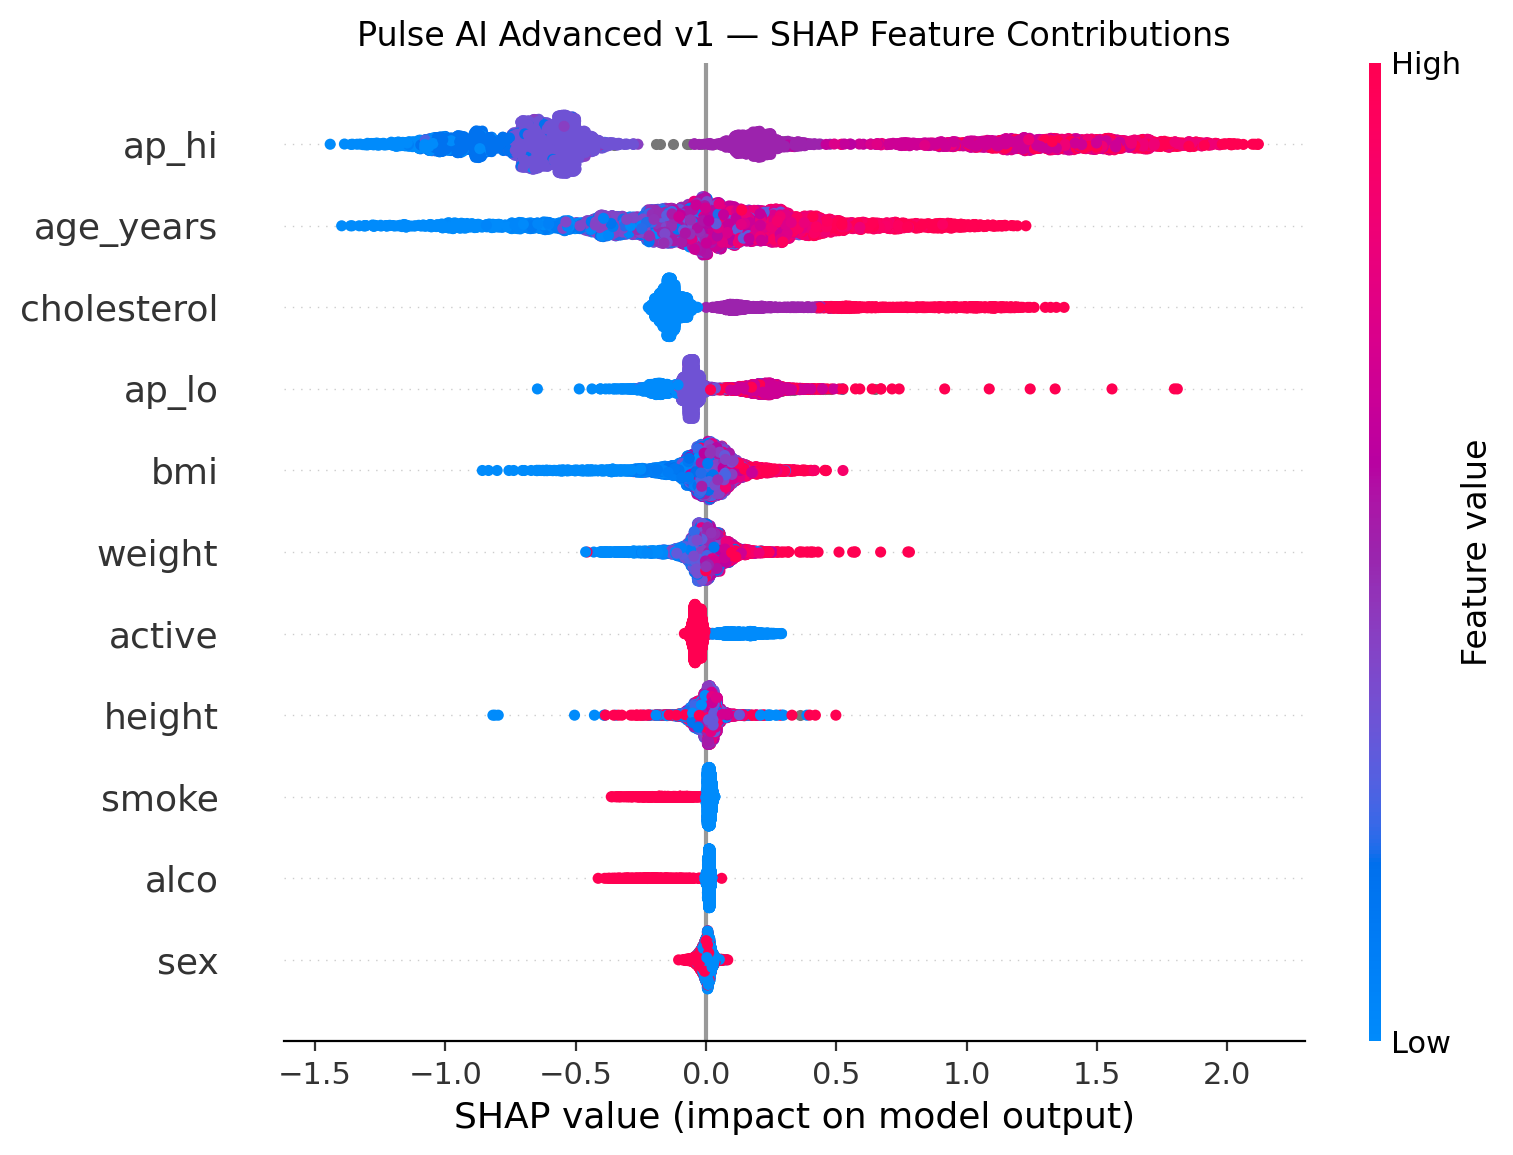
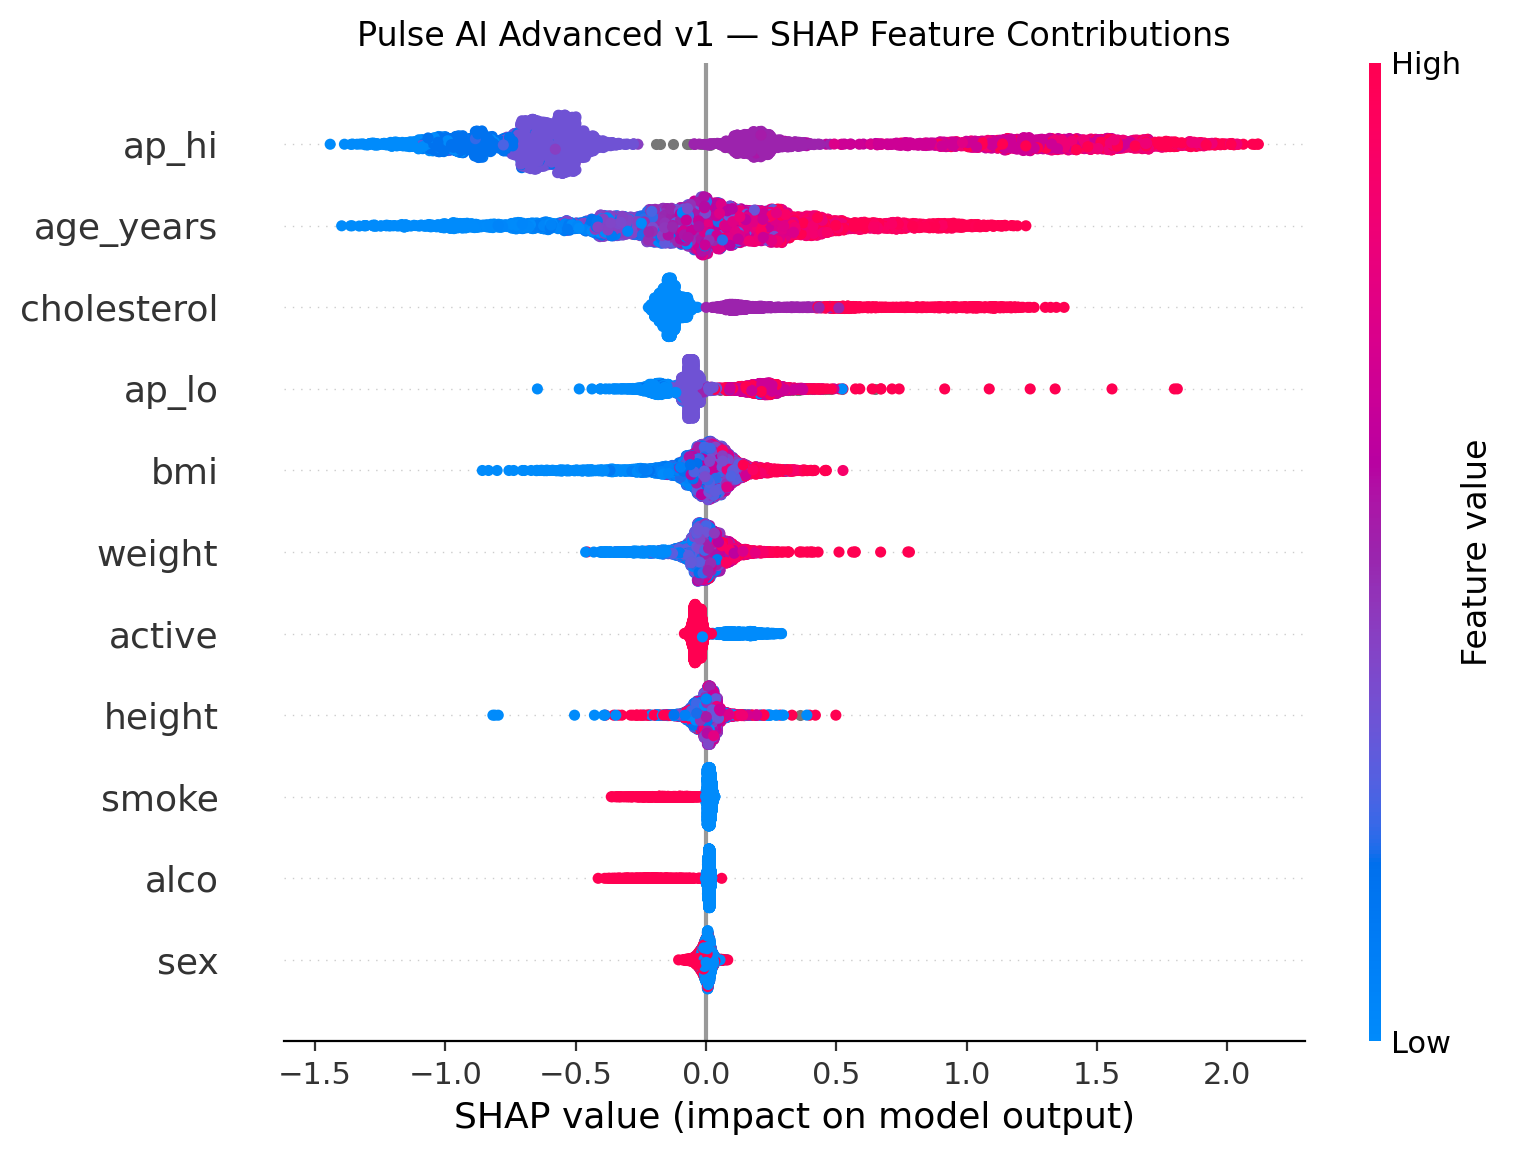
Predicted with SHAP

diff --git a/pulse_ml/src/predict.py b/pulse_ml/src/predict.py
@@ -1,0 +1,386 @@
+import os
+import joblib
+import numpy as np
+import pandas as pd
+import shap
+
+
+MODEL_PATH = "../models/advanced/xgboost.pkl"
+
+THRESHOLD = 0.34
+
+FEATURES = [
+    "age_years",
+    "sex",
+    "height",
+    "weight",
+    "bmi",
+    "smoke",
+    "alco",
+    "active",
+    "ap_hi",
+    "ap_lo",
+    "cholesterol",
+]
+
+
+def calculate_bmi(
+    height_cm,
+    weight_kg,
+):
+
+    if not height_cm or not weight_kg:
+        return 0.0
+
+    height_m = height_cm / 100.0
+
+    if height_m <= 0:
+        return 0.0
+
+    return weight_kg / (
+        height_m * height_m
+    )
+
+
+def load_model():
+
+    model = joblib.load(
+        MODEL_PATH
+    )
+
+    return model
+
+
+def create_explainer(model):
+
+    """
+    SHAP explainer.
+
+    This script is intended to run inside the
+    .venv-shap environment using:
+
+        XGBoost 2.1.4
+        SHAP 0.49.1
+    """
+
+    return shap.TreeExplainer(
+        model
+    )
+
+
+def predict_user(
+    user_data,
+):
+
+    model = load_model()
+
+    # =========================================================
+    # BUILD FEATURE VECTOR
+    # =========================================================
+
+    row = {}
+
+    for feature in FEATURES:
+
+        row[feature] = user_data.get(
+            feature,
+            np.nan,
+        )
+
+    X = pd.DataFrame(
+        [row],
+        columns=FEATURES,
+    )
+
+    # =========================================================
+    # MODEL PROBABILITY
+    # =========================================================
+
+    probability = float(
+        model.predict_proba(
+            X
+        )[0][1]
+    )
+
+    # =========================================================
+    # THRESHOLD CLASSIFICATION
+    # =========================================================
+
+    predicted_class = int(
+        probability >= THRESHOLD
+    )
+
+    # =========================================================
+    # HEALTH SCORE
+    # =========================================================
+    #
+    # This is an application score derived from the
+    # model probability. It is NOT a clinical score.
+    #
+    # Higher probability -> lower score.
+    #
+
+    score = round(
+        (1.0 - probability) * 100
+    )
+
+    score = max(
+        0,
+        min(
+            100,
+            score,
+        ),
+    )
+
+    # =========================================================
+    # SHAP
+    # =========================================================
+
+    explainer = create_explainer(
+        model
+    )
+
+    shap_values = (
+        explainer.shap_values(
+            X
+        )
+    )
+
+    shap_values = np.asarray(
+        shap_values
+    )
+
+    if shap_values.ndim == 3:
+
+        shap_values = (
+            shap_values[:, :, -1]
+        )
+
+    contributions = (
+        shap_values[0]
+    )
+
+    # =========================================================
+    # CONTRIBUTION TABLE
+    # =========================================================
+
+    explanation = []
+
+    for feature, value, contribution in zip(
+        FEATURES,
+        X.iloc[0].values,
+        contributions,
+    ):
+
+        explanation.append(
+            {
+                "feature": feature,
+                "value": (
+                    None
+                    if pd.isna(value)
+                    else float(value)
+                ),
+                "shap": float(
+                    contribution
+                ),
+                "direction": (
+                    "increases"
+                    if contribution > 0
+                    else "decreases"
+                ),
+            }
+        )
+
+    # Strongest contributors first
+
+    explanation.sort(
+        key=lambda x: abs(
+            x["shap"]
+        ),
+        reverse=True,
+    )
+
+    # =========================================================
+    # POSITIVE / NEGATIVE
+    # =========================================================
+
+    positive = [
+        item
+        for item in explanation
+        if item["shap"] > 0
+    ]
+
+    negative = [
+        item
+        for item in explanation
+        if item["shap"] < 0
+    ]
+
+    # =========================================================
+    # TOP CONTRIBUTORS
+    # =========================================================
+
+    top_positive = positive[:5]
+
+    top_negative = negative[:5]
+
+    # =========================================================
+    # CLASSIFICATION LABEL
+    # =========================================================
+
+    if probability < 0.20:
+
+        classification = "low"
+
+    elif probability < 0.34:
+
+        classification = "lower"
+
+    elif probability < 0.50:
+
+        classification = "elevated"
+
+    elif probability < 0.70:
+
+        classification = "high"
+
+    else:
+
+        classification = "very_high"
+
+    # =========================================================
+    # RESULT
+    # =========================================================
+
+    return {
+        "model": "pulse_ai_advanced_v1",
+
+        "probability": round(
+            probability,
+            4,
+        ),
+
+        "score": score,
+
+        "threshold": THRESHOLD,
+
+        "classification":
+            classification,
+
+        "predicted_class":
+            predicted_class,
+
+        "top_positive":
+            top_positive,
+
+        "top_negative":
+            top_negative,
+
+        "all_contributions":
+            explanation,
+    }
+
+
+# ============================================================================
+# TEST
+# ============================================================================
+
+if __name__ == "__main__":
+
+    print("=" * 80)
+    print(
+        "PULSE AI ADVANCED — INDIVIDUAL PREDICTION"
+    )
+    print("=" * 80)
+
+    # Example only.
+    #
+    # Replace these values later with the user's
+    # actual MongoDB/profile/clinical data.
+
+    example_user = {
+
+        "age_years": 45,
+
+        "sex": 1,
+
+        "height": 170,
+
+        "weight": 75,
+
+        "bmi": calculate_bmi(
+            170,
+            75,
+        ),
+
+        "smoke": 0,
+
+        "alco": 0,
+
+        "active": 1,
+
+        "ap_hi": 130,
+
+        "ap_lo": 80,
+
+        "cholesterol": 1,
+    }
+
+    result = predict_user(
+        example_user
+    )
+
+    print("\n")
+    print("=" * 80)
+    print(
+        "RESULT"
+    )
+    print("=" * 80)
+
+    print(
+        f"\nProbability: "
+        f"{result['probability']}"
+    )
+
+    print(
+        f"Pulse AI Score: "
+        f"{result['score']}/100"
+    )
+
+    print(
+        f"Classification: "
+        f"{result['classification']}"
+    )
+
+    print(
+        f"Threshold: "
+        f"{result['threshold']}"
+    )
+
+    print(
+        "\nTop positive contributors:"
+    )
+
+    for item in result[
+        "top_positive"
+    ]:
+
+        print(
+            f"  {item['feature']}: "
+            f"{item['value']} "
+            f"(SHAP {item['shap']:.4f})"
+        )
+
+    print(
+        "\nTop negative contributors:"
+    )
+
+    for item in result[
+        "top_negative"
+    ]:
+
+        print(
+            f"  {item['feature']}: "
+            f"{item['value']} "
+            f"(SHAP {item['shap']:.4f})"
+        )
